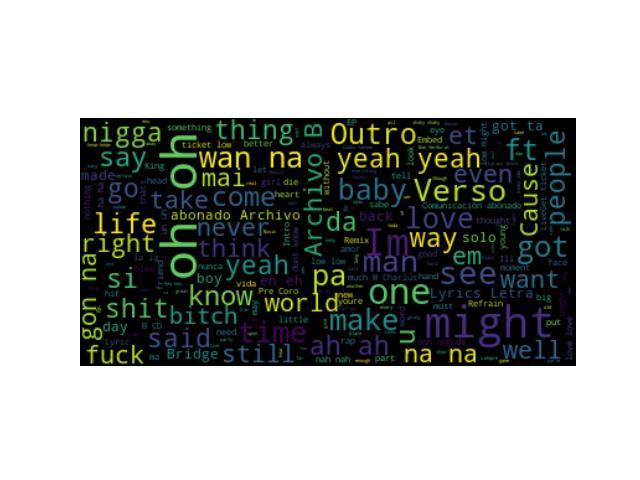
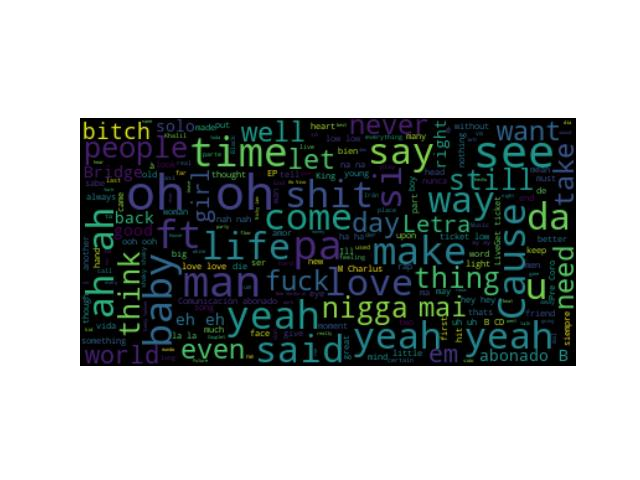
Stop words

Changed region(s): [[0.125, 0.25, 0.9062, 0.7812]]

diff --git a/functions/prepare_lyrics.py b/functions/prepare_lyrics.py
@@ -15,7 +15,7 @@ def prepare_lyrics(directory):
     stop_words.update(['[', ']', ':', ';', "''", '(', ')', '&', ',', '?', '``', '-', ',', '!', '\'', '.', '/', '\'', '"', '...', '*', '--', '—', '’', '“', '”','–', '//'])
     
     # Song specific stop words
-    stop_words.update(['feat', 'chorus', 'verse', 'pre-chorus', 'post-chorus', 'outro', 'verso', 'refrain', 'lyrics'])
+    stop_words.update(['feat', 'chorus', 'verse', 'pre-chorus', 'post-chorus', 'outro', 'verso', 'refrain', 'lyrics', 'intro', 'ft', 'et', 'embed', 'remix', 'archivo', 'ft-', 'EP'])
 
     # Extremely common words that appear every time
     stop_words.update(['like', 'im', 'know', 'might', 'dont', 'got', 'also', 'oh', 'aint', 'youre', 'get', 'go', 'na', 'one'])
